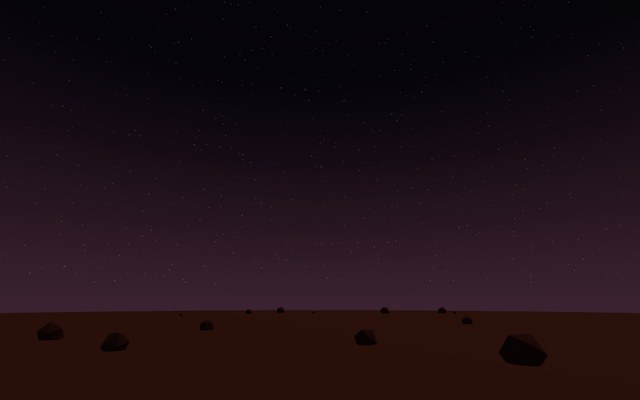
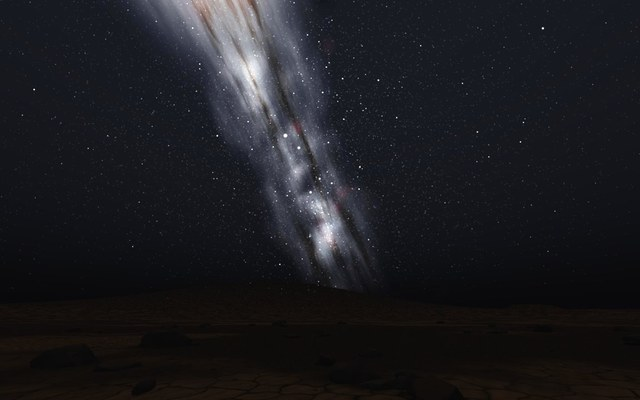
List Mars Sky card on Invent
Show the Mars Sky card in the Invent grid with updated text for the new day/night build, a new Milky Way cover image and a blue-sunset preview image. Honey Bee Flight and Ocean Taal stay held back.

diff --git a/app.js b/app.js
@@ -60,12 +60,12 @@ const DEMOS = [
   vr:"inventndiscover.com/demos/fish-in-a-jar",
   needs:"On a laptop: drag to look, V switches between the fish and the table, L changes the lens, M for sound, H to hide the controls. On a phone: drag to look and use the buttons. Call visitor brings someone in at once. In VR on Meta Quest: B or Y switches view, the right stick turns and X shows a performance readout. Best in a recent Chrome, Edge or Safari.",
   desc:"A round glass goldfish bowl on an oak table in a sunlit living room. Switch between sitting at the table and being the goldfish inside. From inside, the room is ray-traced through the water and the curved glass, so it bends and swims as you move, and looking up shows Snell's window: the whole room squeezed into one bright circle on the water surface. Visitors walk in through the archway, crouch until their eyes are level with the bowl, blink and smile at you. Slide how strongly water bends light (1.00 is air, with no bending at all), swap to a 180-degree photographer's fisheye lens, and set the swimming, the bubbles and the TV sound. Everything runs in one web page, with nothing to download."},
-/* Held back on purpose — not yet listed on the live site, pending Mohit's go-ahead:
- {id:"mars-sky",added:"2026-10-20",name:"Mars Sky",line:"The night sky from the Martian surface, in your browser or in VR",cat:"XR",status:"Concept",makers:["Mohit Bhardwaj"],inst:"Real",tools:["WebGL 2","WebXR"],
+ {id:"mars-sky",added:"2026-10-20",name:"Mars Sky",line:"Day, a blue sunset and the Milky Way from the surface of Mars, in your browser or in VR",cat:"XR",status:"Concept",makers:["Mohit Bhardwaj"],inst:"Real",tools:["WebGL 2","WebXR"],
   img:"media/mars-sky-cover.jpg",sheetImg:"media/mars-sky-visitor.jpg",url:"demos/mars-sky/",cta:"Look up",
   vr:"inventndiscover.com/demos/mars-sky",
-  needs:"On a laptop or phone: drag to look around, X shows a performance readout, H hides the controls. In VR on Meta Quest: just turn your head; X on a controller shows the same readout. Best in a recent Chrome, Edge or Safari.",
-  desc:"Stand on the Martian surface at night and look up. A dense star field fills a near-black sky that fades to a thin rose-dust glow at the horizon, over a scatter of low rocks on red ground. Phobos and Deimos, Mars's two real moons, drift past at their own speeds — Phobos faster and lower, Deimos slower and higher, matching how they actually orbit. There is nothing to do and nowhere to go: no spacecraft, no task, just the sky. Everything runs in one web page, with nothing to download."},
+  needs:"On a laptop or phone: drag to look, scroll or pinch to zoom, use the time slider or the Sunrise, Noon, Sunset and Night buttons, Find Earth to locate our planet, X for a performance readout and H to hide the controls. In VR on Meta Quest: the left stick moves time, B or Y jumps between sunrise, noon, sunset and night, A shows labels, the right stick turns and X shows the readout. Best in a recent Chrome, Edge or Safari.",
+  desc:"Stand on the floor of Gale Crater, where NASA's Curiosity rover works, and watch a whole Martian day go by. The noon sky is dusty butterscotch over cracked pale bedrock, dark sand and angular basalt rocks, with Mount Sharp rising to the south. At sunset the glow around the Sun turns blue, as it really does on Mars, and a long twilight fades into a night sky of about 118,000 real catalogued stars and the Milky Way. The Sun, Earth, our Moon, Venus, Jupiter and Saturn sit where they really are seen from Mars on the chosen date, and Find Earth zooms in on the blue-white point of our planet with the Moon beside it. Phobos rises in the west and races across the sky in about four hours, going dark in Mars's shadow near midnight, while tiny Deimos drifts slowly east to west. Choose 7 June 2027, when the heart of the Milky Way passes overhead before Earth rises as a morning star, or today, when Earth is the evening star after a blue sunset. Run time at real speed or up to 3000 times faster. Everything runs in one web page, with nothing to download."},
+/* Held back on purpose — not yet listed on the live site, pending Mohit's go-ahead:
  {id:"honey-bee-flight",added:"2026-10-20",name:"Honey Bee Flight",line:"A bee's-eye drift over giant folded-paper flowers, in your browser or in VR",cat:"XR",status:"Concept",makers:["Mohit Bhardwaj"],inst:"Real",tools:["WebGL 2","WebXR","Web Audio"],
   img:"media/honey-bee-flight-cover.jpg",sheetImg:"media/honey-bee-flight-visitor.jpg",url:"demos/honey-bee-flight/",cta:"Take flight",
   vr:"inventndiscover.com/demos/honey-bee-flight",
